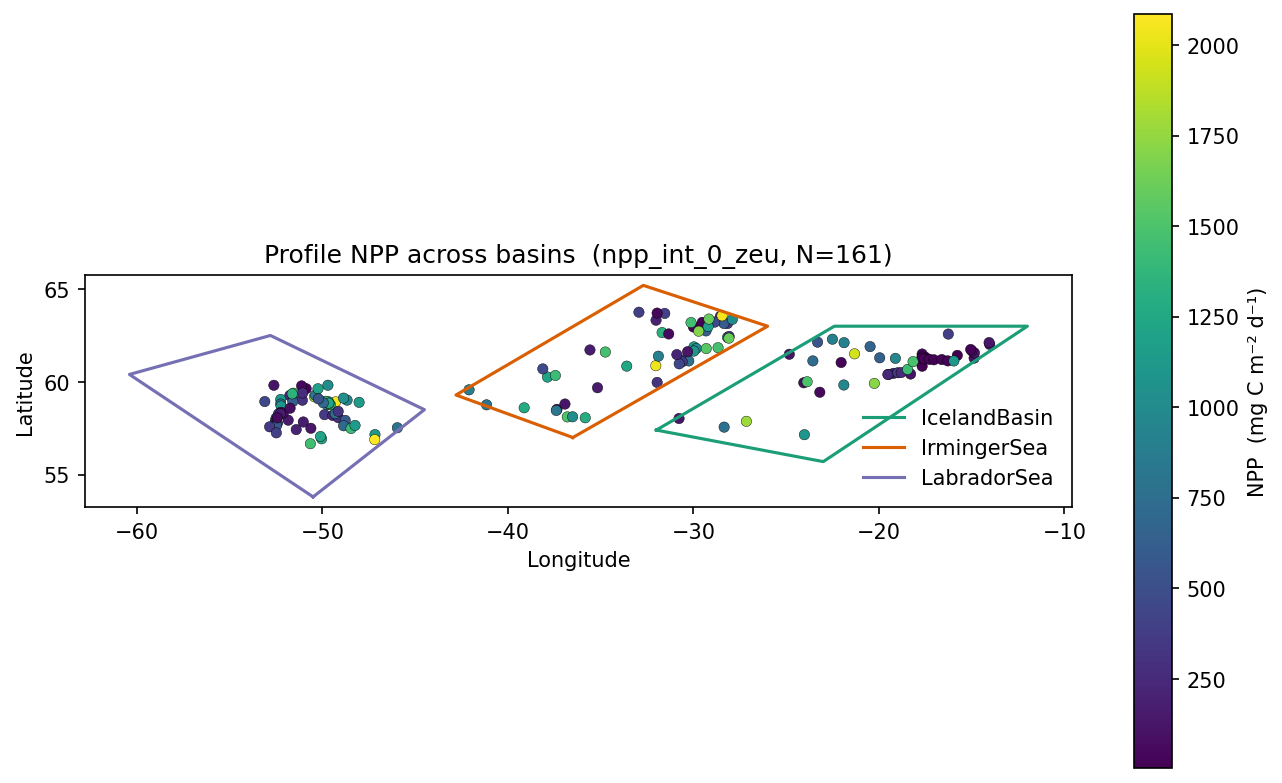
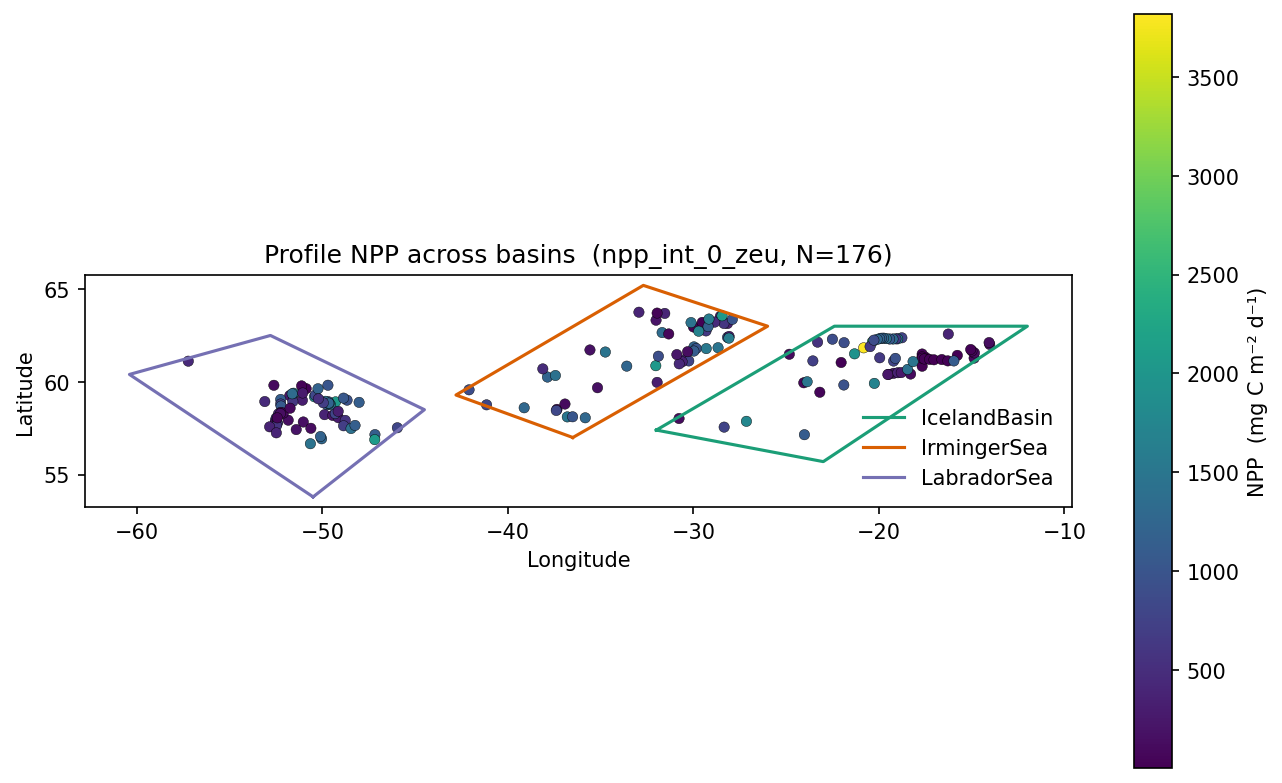
remove loess estimate of MLD to bin average

diff --git a/scripts/process_cphyto.py b/scripts/process_cphyto.py
@@ -39,7 +39,7 @@ BBP_WINDOW = 11     # samples (=metres here) for Briggs despike
 # BGC-Argo ADJUSTED QC flags considered usable: 1=good, 2=probably good,
 # 5=value changed (real-time correction applied — dominant for CHLA/BBP),
 # 8=interpolated/estimated (e.g. CHLA NPQ correction).
-QC_OK = {"1", "2", "5", "8"}
+QC_OK = {"1", "2", "3", "5", "8"}
 
 TARGET_DEPTHS = np.arange(DEPTH_MIN, DEPTH_MAX + 1, DEPTH_STEP)
 
